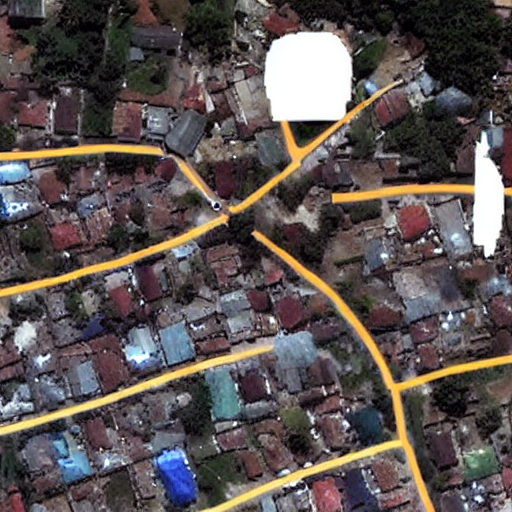
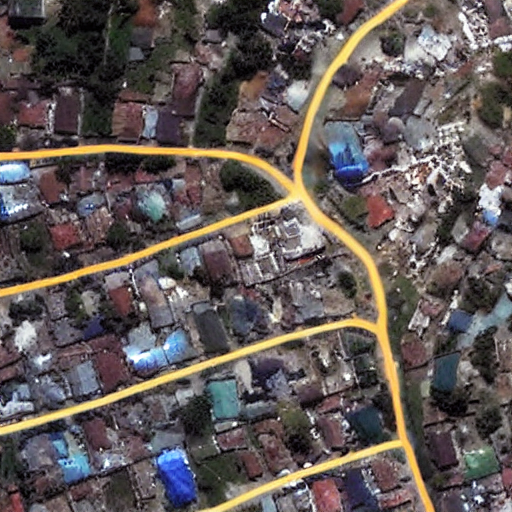
AHHHHH

diff --git a/ImprovedCresi/main.py b/ImprovedCresi/main.py
@@ -1,34 +1,15 @@
 import argparse
-import os
 
+import numpy as np
+import s3fs
 import torch
 from PIL import Image
-from diffusionsat.pipeline_controlnet import StableDiffusionControlNetPipeline
-from diffusionsat.data_util import metadata_normalize
-from diffusionsat import DiffusionSatControlNetPipeline, DiffusionSatPipeline, SatUNet
-from diffusionsat.pipeline import StableDiffusionPipeline
-from diffusionsat.controlnet import ControlNetModel
 from src.diffusers.pipelines import StableDiffusionInpaintPipeline
+from transformers import SegformerFeatureExtractor, SegformerForSemanticSegmentation
+
+
 def argparser():
     parser = argparse.ArgumentParser(description="InpaintCresi Command Line Interface")
-    parser.add_argument(
-        "--unet-model-path",
-        type=str,
-        default="finetune_sd21_sn-satlas-fmow_snr5_md7norm_bs64/",
-        help="Path to the UNet model checkpoint",
-    )
-    parser.add_argument(
-        "--ctrlnet-model-path",
-        type=str,
-        default="controlnet_sd21_md7norm_fmow_condres256",
-        help="Path to the ControlNet model checkpoint",
-    )
-    parser.add_argument(
-        "--data",
-        type=str,
-        default=None,
-        help="Input data for processing",
-    )
     parser.add_argument(
         "--img-size-x",
         type=int,
@@ -48,82 +29,110 @@ def argparser():
         help="Number of inference steps for the diffusion process",
     )
     parser.add_argument(
-        "--image",
+        "--image-s3",
         type=str,
         default="example_data/satellite_image.png",
         help="Path to the input image for inpainting",
-    )
-    parser.add_argument(
-        "--mask",
-        type=str,
-        default="example_data/mask.png",
-        help="Path to the input mask for inpainting",
     )
     return parser.parse_args()
 
 
 class InpaintCresi:
-    def __init__(self, unet_checkpoint_path: str, ctrlnet_checkpoint_path: str, img_size_x: int, img_size_y: int, num_inference_steps: int) -> None:
-        self.unet_checkpoint_path = unet_checkpoint_path
-        self.ctrlnet_checkpoint_path = ctrlnet_checkpoint_path
-        
+    def __init__(
+        self,
+        fs: s3fs.S3FileSystem,
+        img_size_x: int,
+        img_size_y: int,
+        num_inference_steps: int,
+    ) -> None:
+        self.fs = fs
         self.device = "cuda" if torch.cuda.is_available() else "cpu"
         print(f"Using device: {self.device}")
-        
+
         self.img_size_x = img_size_x
-        self.img_size_y = img_size_y    
+        self.img_size_y = img_size_y
         self.num_inference_steps = num_inference_steps
         self.guidance_scale = 7.5
 
-    def SatUNet_pipeline(self) -> StableDiffusionControlNetPipeline:
-        # unet = SatUNet.from_pretrained(
-        #     self.unet_checkpoint_path + "checkpoint-150000",
-        #     subfolder="unet",
-        #     num_metadata=7,
-        # )
-        # controlnet = ControlNetModel.from_pretrained(
-        #     self.ctrlnet_checkpoint_path,
-        #     subfolder="controlnet",
-        #     num_metadata=7,
-        #     torch_dtype=torch.float16
-        # )
-        pipe = StableDiffusionInpaintPipeline.from_pretrained("stable-diffusion-v1-5/stable-diffusion-inpainting", cache_dir="/local/s3322637/.cache/").to(self.device)
-        return pipe
+        self.feature_extractor = SegformerFeatureExtractor.from_pretrained(
+            "Burdenthrive/cloud-detection-segformer-mit_b4-RGB",
+            cache_dir="/local/s3322637/.cache/",
+        )
+        self.segformer_model = (
+            SegformerForSemanticSegmentation.from_pretrained(
+                "Burdenthrive/cloud-detection-segformer-mit_b4-RGB",
+                cache_dir="/local/s3322637/.cache/",
+            )
+            .to(self.device)
+            .eval()
+        )
 
-    def inpaint(self, image_path: str, mask_path: str):
-        pipe = self.SatUNet_pipeline()
+        self.inpaint_pipe = StableDiffusionInpaintPipeline.from_pretrained(
+            "stable-diffusion-v1-5/stable-diffusion-inpainting"
+        ).to(self.device)
 
-        init_image = Image.open(image_path).convert("RGB").resize((self.img_size_x, self.img_size_y))
-        mask_image = Image.open(mask_path).convert("L").resize((self.img_size_x, self.img_size_y))
+        print(type(self.inpaint_pipe))
         
-        caption = "a satellite image of a city with buildings and roads inpainted realistically"
-        # metadata: [longitude, latitude, gsd, cloud cover, year, month, day]
-        # metadata = metadata_normalize([76.5712666476, 28.6965307997, 0.929417550564, 0.0765712666476, 2015, 2, 27]).tolist()
+    def load_s3_image(self, s3_path: str) -> Image.Image:
+        with self.fs.open(s3_path, "rb") as f:
+            img = Image.open(f).convert("RGB")
+        img = img.resize((self.img_size_x, self.img_size_y))
+        return img
 
-        output = pipe(
-            prompt=caption,
-            image=init_image,
-            mask_image=mask_image,
+    def detect_cloud_mask(self, image: Image.Image) -> Image.Image:
+        # Preprocess
+        inputs = self.feature_extractor(images=image, return_tensors="pt").to(
+            self.device
+        )
+        with torch.no_grad():
+            outputs = self.segformer_model(**inputs)
+
+        logits = outputs.logits
+        mask = torch.argmax(logits, dim=1)[0].cpu().numpy()
+
+        cloud_mask = ((mask == 1) | (mask == 2)).astype(np.uint8) * 255
+        return Image.fromarray(cloud_mask).resize((self.img_size_x, self.img_size_y))
+
+    def inpaint(
+        self, image: Image.Image, mask: Image.Image, prompt: str, output_path: str
+    ):
+        result = self.inpaint_pipe(
+            prompt=prompt,
+            image=image,
+            mask_image=mask,
             num_inference_steps=self.num_inference_steps,
             guidance_scale=self.guidance_scale,
             height=self.img_size_y,
             width=self.img_size_x,
         ).images[0]
-
-        output.save("inpainted_image.png")
+        result.save(output_path)
+        print(f"Inpainted image saved to {output_path}")
 
     def cresi(self, data):
         pass
 
 
 def main(args: argparse.Namespace):
-    processor = InpaintCresi(args.unet_model_path, args.ctrlnet_model_path, args.img_size_x, args.img_size_y, args.num_inference_steps)
-    output = processor.inpaint(args.image, args.mask)
+    fs = s3fs.S3FileSystem(anon=True)
+    print(
+        fs.ls(
+            "s3://spacenet-dataset/spacenet/SN5_roads/test_public/AOI_8_Mumbai/PS-RGB/"
+        )
+    )
+    processor = InpaintCresi(
+        fs,
+        args.img_size_x,
+        args.img_size_y,
+        args.num_inference_steps,
+    )
+    img = processor.load_s3_image(args.image_s3)
+    mask = processor.detect_cloud_mask(img)
+
+    prompt = "A satellite image of a city with buildings and roads, clouds removed realistically"
+    output = processor.inpaint(img, mask, prompt, "inpainted_image.png")
     output = processor.cresi(output)
 
 
 if __name__ == "__main__":
-    os.environ["HF_HOME"] = "/local/s3322637/.cache/"
-
     args = argparser()
     main(args)
